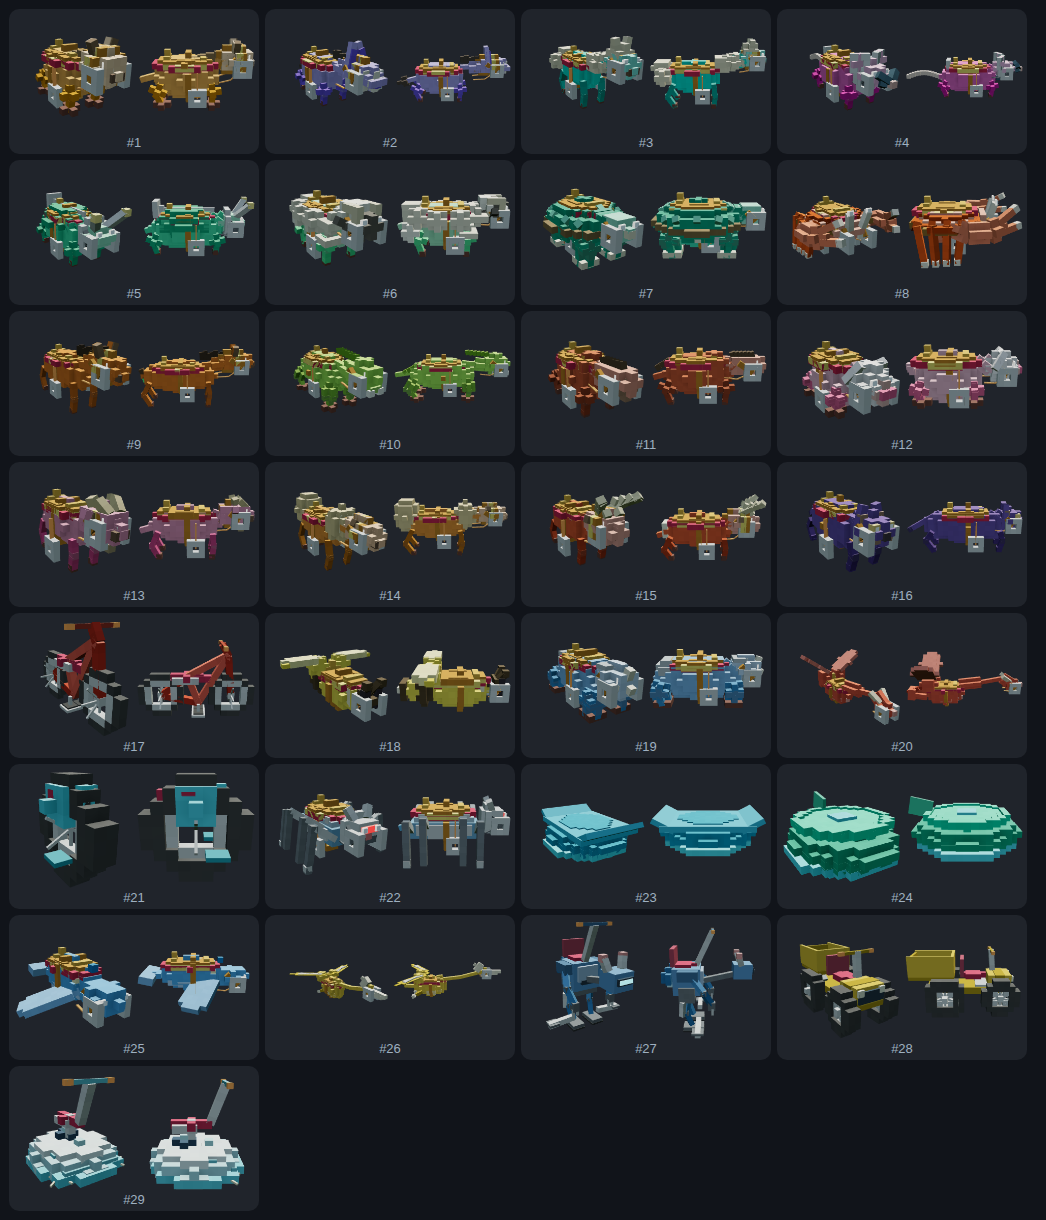
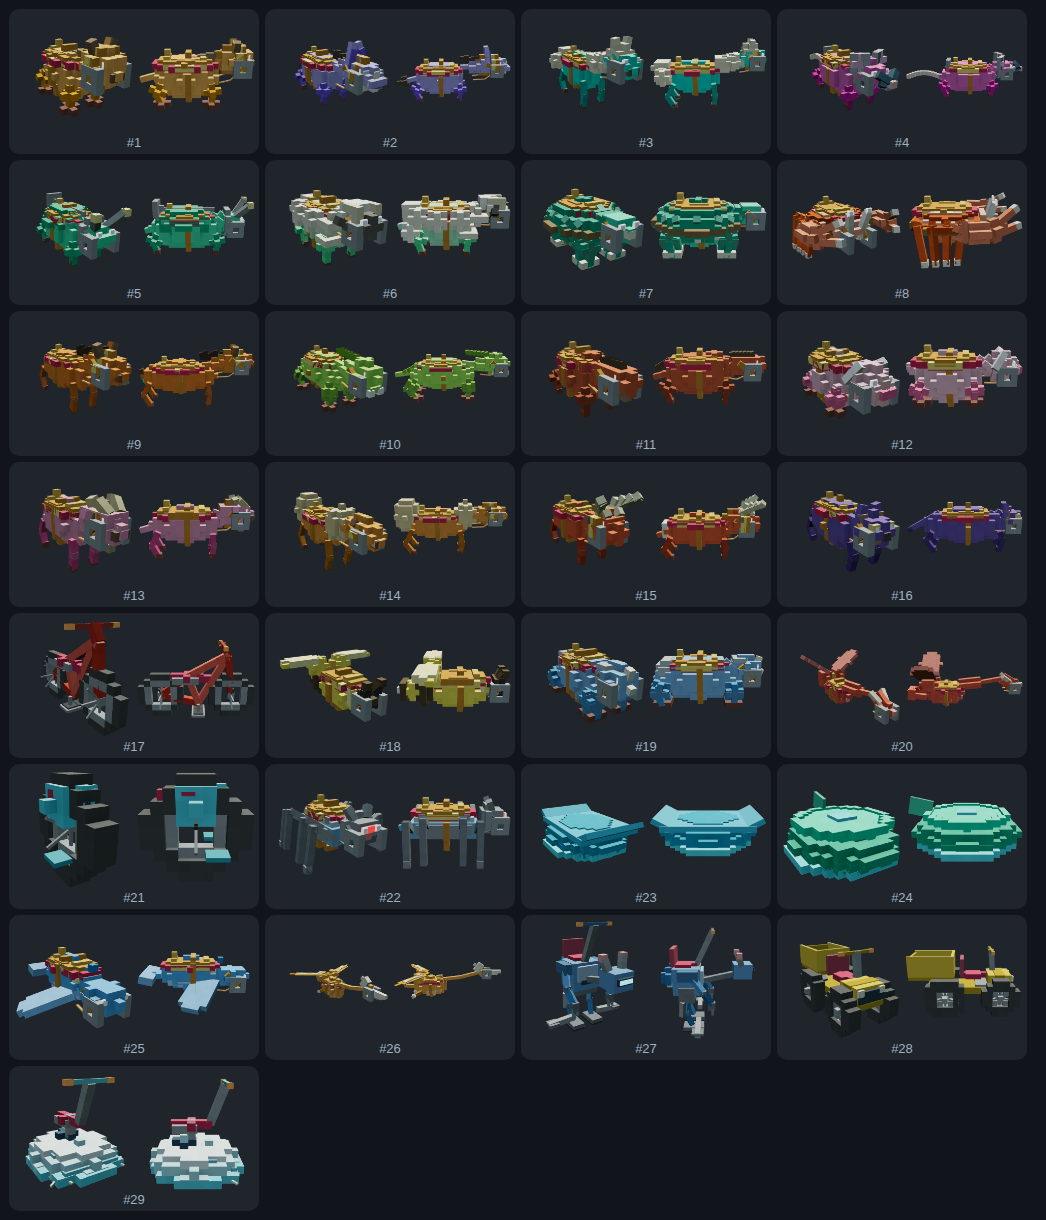
탈것 색 3차 — 두상 몸색 통일 + 등자 건메탈로(허공 흰 상자 제거)
520px 실측으로 두 감점원 규명·처치:
① 사족 기본 두상이 light(몸+0.18L)라 큰 두상에서 흰 달걀로 타 웜 몸통 위
   '크림 얼룩'으로 읽혔다 → 두상 기본을 mat(몸색)으로(비행종 head-proximity 와
   같은 논리, 예외 당나귀·염소·양은 유지).
② 2차에서 IRON 을 밝은회색으로 올렸더니 등자가 '허공에 뜬 흰 상자'로 떠 감점
   (비평가 반복 지적) → 건메탈 0x6a6e72 로 눌러 시선에서 뺌.
+ vivid() 웜 보정 실험은 되돌림 — 웜 hue 는 명도를 올리면 saturated 가 아니라
  cream 으로 씻길 뿐이라(렌더러 톤맵 한계, 세션 주석에 근거 기록) 무효.

지오메트리 0 변경 — 색·재질만. probe-geo-ratchet 101 · probe-mount-detached 0 ·
probe-creature-framing PASS · node --check · 콘솔 0.

Claude-Session: https://claude.ai/code/session_01N9eJf2LRQXTBD7YjTjpUnV

diff --git a/web/js/scene3d.js b/web/js/scene3d.js
@@ -10418,6 +10418,10 @@ const Scene3D = {
         //    ⚠ 탈것 전용(pet/equip/enemy 는 각자 build 호출이라 무영향) — 회색 종은 s>0.12 가드로 안 물들인다.
         const vivid = (hex) => {
             const col = new THREE.Color(hex); const hsl = {}; col.getHSL(hsl);
+            // 🚨 세션6 실측: **웜 hue(적~노랑)는 이 렌더러(ACES 톤맵+깊은 복셀 암부)가 채도 자체를 뭉갠다** —
+            //    베이스 오렌지든 vivid 로 채도·명도를 더 얹든 tan(어둡게) ↔ cream(밝게) 사이만 오갈 뿐
+            //    **saturated 오렌지로는 안 선다**(냉색은 멀쩡). 그래서 웜 보정은 포기 — 웜 종은 아예 냉색
+            //    candy 로 재배정하는 게 답(alpaca 틸·donkey 보라가 통과 인정받은 그 방향). vivid 은 종전대로.
             if (hsl.s > 0.12) col.offsetHSL(0, Math.min(0.18, (1 - hsl.s) * 0.55), 0.025);
             else col.offsetHSL(0, 0, 0.02);   // 무채색 종은 색조 안 넣고 살짝만 밝게
             return col.getHex();
@@ -10736,7 +10740,7 @@ const Scene3D = {
         // 🍬 세션6: 안장 마구가 **모든 탈것에 얹히는 회갈색 흙 덩어리**라 팔레트 전체를 흙으로 끈다는
         //    비평가 D 최우선 지적("gray/brown saddle cubes contaminate everything, 한 번의 팔레트 패스가
         //    가장 많은 종을 올린다"). 마구를 캐러멜·밝은 스틸로 올려 candy 쪽으로(가죽다움은 유지).
-        const LEATHER = M(0xa0561e, { emissive: 0x1a0c04 }), TAN = M(0xc9852e, { emissive: 0x1c1206 }), IRON = M(0xbcc0c4);
+        const LEATHER = M(0xa0561e, { emissive: 0x1a0c04 }), TAN = M(0xc9852e, { emissive: 0x1c1206 }), IRON = M(0x6a6e72);   // IRON 밝은회색→건메탈(밝게 하니 등자가 '허공의 흰 상자'로 떠 감점 — 어둡게 눌러 눈에서 뺌)
         // 같은 이유로 **재질 정체성이 뚜렷한 파츠**도 등급색을 벗긴다. 타이어는 고무(검정), 림·허브는 금속,
         // 발굽은 각질 — 이걸 등급색으로 두면 에픽 자전거가 타이어까지 전신 초록이라 '자전거'가 아니라
         // 초록 링 두 개로 읽힌다(실측 캡처에서 그대로 확인). 등급 틴트는 프레임·몸통 쪽에 남겨 둔다.
@@ -12167,9 +12171,13 @@ const Scene3D = {
             // 두상 재질도 종별로. ⚠ 공용값 `light` 는 에픽 초록에서 거의 흰색으로 타므로, 얼굴에
             // **밝은 무늬**(당나귀 밀리)를 얹을 종은 바탕을 몸색으로 내려야 무늬가 정보 노릇을 한다.
             // 양은 반대로 **얼굴이 어두운 게 종 정보**다(크림 털뭉치 + 검은 얼굴 = 양).
+            // 🍬 세션6: 기본 두상을 `light`→`mat`(몸색). `light`(몸+0.18L)는 위 주석대로 큰 두상에서
+            //    **흰 달걀로 탄다** — 웜 몸통 위 크림색 머리가 '흙/베이지 얼룩'으로 읽혀(비평가 반복 감점
+            //    '#1·#9·#14 muddy') 오렌지/레드 몸을 통짜 candy 로 못 읽게 했다. 비행종 머리(head-proximity)가
+            //    이미 light→mat 로 '한 생물'을 얻은 것과 같은 논리를 사족에도. 예외는 그대로(당나귀·염소 밀리·양 검은얼굴).
             const headMat = (name === 'Donkey' || name === 'Goat') ? mat
                           : name === 'Sheep' ? M(0x3b3630) : (PANTHER || BROWN) ? bodyMat
-                          : name === 'Dino' ? mat : light;   // 공룡: `light` 는 큰 두상에서 흰 달걀로 탄다
+                          : mat;
             // 뿔·코는 머리에 붙어 있어야 한다 — 머리를 앞으로 뺀 만큼(z +0.06) 같이 따라간다
             // ⚠ 염소 뿔·돼지 코는 예전에 여기(체인 밖)에 있었고 **`HEADPART` 도 아니었다** — 머리가
             //    끄덕여도 뿔·코만 허공에 붙박여 남는 상태였다. 아래 종별 체인으로 옮겼다.
